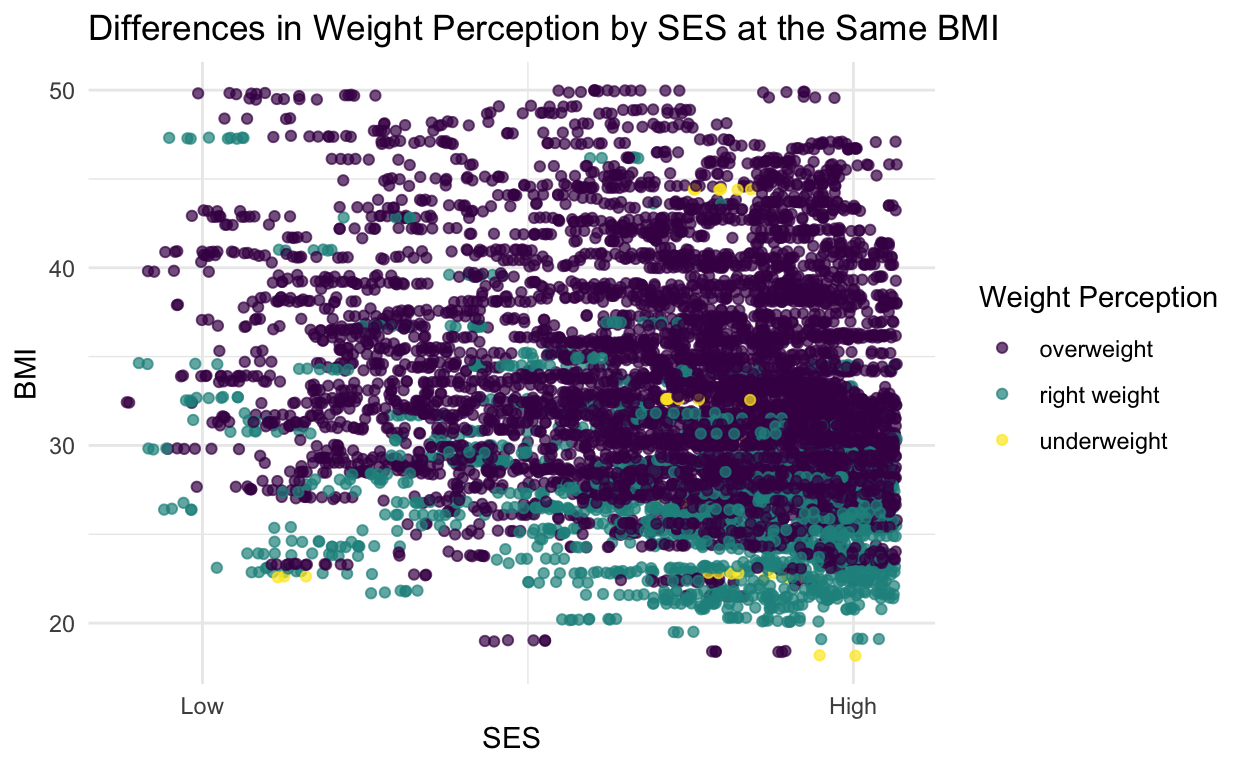
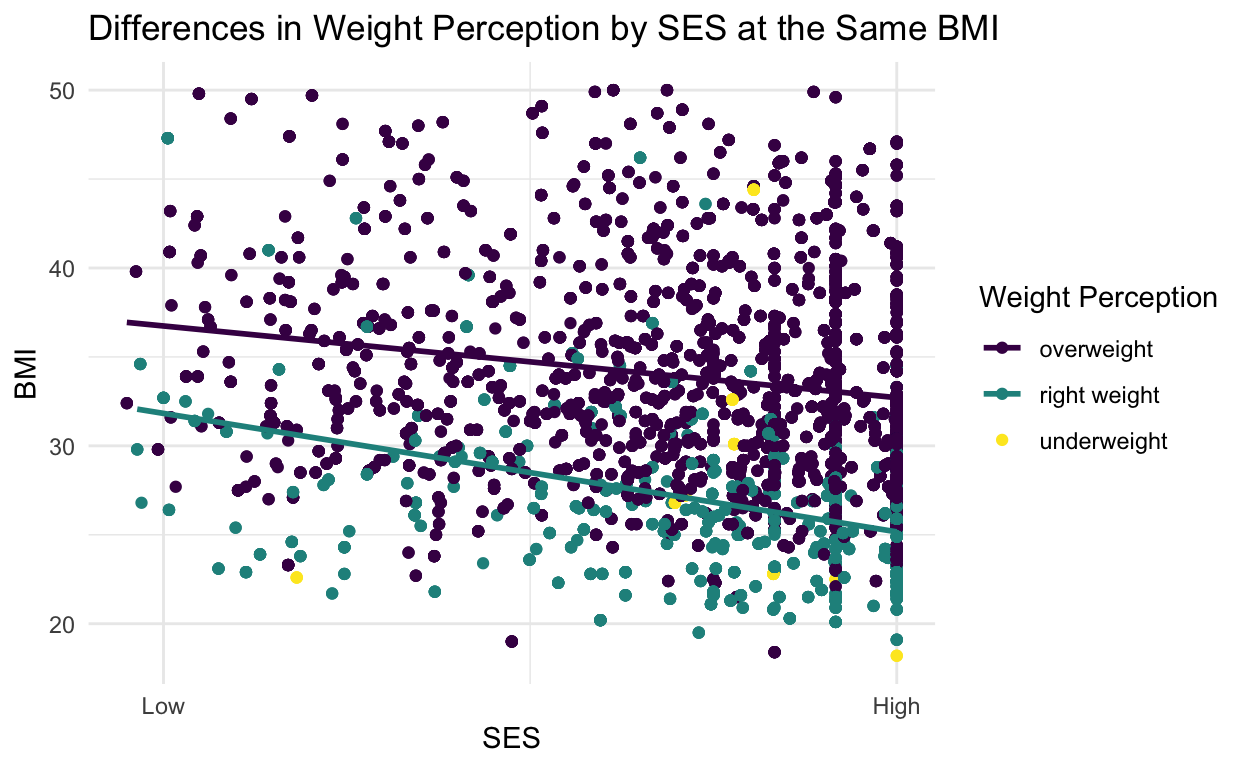
post1

diff --git a/_posts/2025-03-07-ses-and-weight-perception/ses-and-weight-perception.html b/_posts/2025-03-07-ses-and-weight-perception/ses-and-weight-perception.html
@@ -118,7 +118,7 @@ code span.wa { color: #5e5e5e; font-style: italic; } /* Warning */
   <!--/radix_placeholder_rmarkdown_metadata-->
   
   <script type="text/json" id="radix-resource-manifest">
-  {"type":"character","attributes":{},"value":["ses-and-weight-perception_files/anchor-4.2.2/anchor.min.js","ses-and-weight-perception_files/bowser-1.9.3/bowser.min.js","ses-and-weight-perception_files/distill-2.2.21/template.v2.js","ses-and-weight-perception_files/figure-html5/unnamed-chunk-3-1.png","ses-and-weight-perception_files/figure-html5/unnamed-chunk-4-1.png","ses-and-weight-perception_files/header-attrs-2.29/header-attrs.js","ses-and-weight-perception_files/jquery-3.6.0/jquery-3.6.0.js","ses-and-weight-perception_files/jquery-3.6.0/jquery-3.6.0.min.js","ses-and-weight-perception_files/jquery-3.6.0/jquery-3.6.0.min.map","ses-and-weight-perception_files/popper-2.6.0/popper.min.js","ses-and-weight-perception_files/tippy-6.2.7/tippy-bundle.umd.min.js","ses-and-weight-perception_files/tippy-6.2.7/tippy-light-border.css","ses-and-weight-perception_files/tippy-6.2.7/tippy.css","ses-and-weight-perception_files/tippy-6.2.7/tippy.umd.min.js","ses-and-weight-perception_files/webcomponents-2.0.0/webcomponents.js"]}
+  {"type":"character","attributes":{},"value":["plot11.png","plot12.png","ses-and-weight-perception_files/anchor-4.2.2/anchor.min.js","ses-and-weight-perception_files/bowser-1.9.3/bowser.min.js","ses-and-weight-perception_files/distill-2.2.21/template.v2.js","ses-and-weight-perception_files/figure-html5/unnamed-chunk-3-1.png","ses-and-weight-perception_files/figure-html5/unnamed-chunk-4-1.png","ses-and-weight-perception_files/figure-html5/unnamed-chunk-5-1.png","ses-and-weight-perception_files/header-attrs-2.29/header-attrs.js","ses-and-weight-perception_files/jquery-3.6.0/jquery-3.6.0.js","ses-and-weight-perception_files/jquery-3.6.0/jquery-3.6.0.min.js","ses-and-weight-perception_files/jquery-3.6.0/jquery-3.6.0.min.map","ses-and-weight-perception_files/popper-2.6.0/popper.min.js","ses-and-weight-perception_files/tippy-6.2.7/tippy-bundle.umd.min.js","ses-and-weight-perception_files/tippy-6.2.7/tippy-light-border.css","ses-and-weight-perception_files/tippy-6.2.7/tippy.css","ses-and-weight-perception_files/tippy-6.2.7/tippy.umd.min.js","ses-and-weight-perception_files/webcomponents-2.0.0/webcomponents.js"]}
   </script>
   <!--radix_placeholder_navigation_in_header-->
   <!--/radix_placeholder_navigation_in_header-->
@@ -1552,14 +1552,34 @@ code span.wa { color: #5e5e5e; font-style: italic; } /* Warning */
 <div class="layout-chunk" data-layout="l-body">
 
 </div>
-<h1 id="first-draft">First Draft</h1>
 <div class="layout-chunk" data-layout="l-body">
-<p><img src="ses-and-weight-perception_files/figure-html5/unnamed-chunk-3-1.png" width="624" /></p>
+
 </div>
-<h1 id="second-draft">Second Draft</h1>
 <div class="layout-chunk" data-layout="l-body">
-<p><img src="ses-and-weight-perception_files/figure-html5/unnamed-chunk-4-1.png" width="624" /></p>
+
 </div>
+<h3 id="final-plot">Final Plot</h3>
+<div class="layout-chunk" data-layout="l-body">
+<p><img src="ses-and-weight-perception_files/figure-html5/unnamed-chunk-5-1.png" width="624" /></p>
+</div>
+<div>
+<p><button onclick="showPlot('plot11')">Draft 1</button>
+<button onclick="showPlot('plot12')">Draft 2</button></p>
+</div>
+<div>
+<p>(Click the Draft buttons to view previous plots)</p>
+</div>
+<div id="plot-container">
+<p><img id="plot11" src="plot11.png">
+<img id="plot12" src="plot12.png" style="display:none; width: 100%; height: auto;"></p>
+</div>
+<script>
+  function showPlot(plotId) {
+    document.getElementById('plot11').style.display = "none";
+    document.getElementById('plot12').style.display = "none";
+    document.getElementById(plotId).style.display = "block";
+  }
+</script>
 <div class="sourceCode" id="cb1"><pre class="sourceCode r distill-force-highlighting-css"><code class="sourceCode r"></code></pre></div>
 <!--radix_placeholder_article_footer-->
 <!--/radix_placeholder_article_footer-->

diff --git a/docs/posts/2025-03-07-ses-and-weight-perception/index.html b/docs/posts/2025-03-07-ses-and-weight-perception/index.html
@@ -119,7 +119,7 @@ code span.wa { color: #5e5e5e; font-style: italic; } /* Warning */
 <!--/radix_placeholder_rmarkdown_metadata-->
   
   <script type="text/json" id="radix-resource-manifest">
-  {"type":"character","attributes":{},"value":["ses-and-weight-perception_files/anchor-4.2.2/anchor.min.js","ses-and-weight-perception_files/bowser-1.9.3/bowser.min.js","ses-and-weight-perception_files/distill-2.2.21/template.v2.js","ses-and-weight-perception_files/figure-html5/unnamed-chunk-3-1.png","ses-and-weight-perception_files/figure-html5/unnamed-chunk-4-1.png","ses-and-weight-perception_files/header-attrs-2.29/header-attrs.js","ses-and-weight-perception_files/jquery-3.6.0/jquery-3.6.0.js","ses-and-weight-perception_files/jquery-3.6.0/jquery-3.6.0.min.js","ses-and-weight-perception_files/jquery-3.6.0/jquery-3.6.0.min.map","ses-and-weight-perception_files/popper-2.6.0/popper.min.js","ses-and-weight-perception_files/tippy-6.2.7/tippy-bundle.umd.min.js","ses-and-weight-perception_files/tippy-6.2.7/tippy-light-border.css","ses-and-weight-perception_files/tippy-6.2.7/tippy.css","ses-and-weight-perception_files/tippy-6.2.7/tippy.umd.min.js","ses-and-weight-perception_files/webcomponents-2.0.0/webcomponents.js"]}
+  {"type":"character","attributes":{},"value":["plot11.png","plot12.png","ses-and-weight-perception_files/anchor-4.2.2/anchor.min.js","ses-and-weight-perception_files/bowser-1.9.3/bowser.min.js","ses-and-weight-perception_files/distill-2.2.21/template.v2.js","ses-and-weight-perception_files/figure-html5/unnamed-chunk-3-1.png","ses-and-weight-perception_files/figure-html5/unnamed-chunk-4-1.png","ses-and-weight-perception_files/figure-html5/unnamed-chunk-5-1.png","ses-and-weight-perception_files/header-attrs-2.29/header-attrs.js","ses-and-weight-perception_files/jquery-3.6.0/jquery-3.6.0.js","ses-and-weight-perception_files/jquery-3.6.0/jquery-3.6.0.min.js","ses-and-weight-perception_files/jquery-3.6.0/jquery-3.6.0.min.map","ses-and-weight-perception_files/popper-2.6.0/popper.min.js","ses-and-weight-perception_files/tippy-6.2.7/tippy-bundle.umd.min.js","ses-and-weight-perception_files/tippy-6.2.7/tippy-light-border.css","ses-and-weight-perception_files/tippy-6.2.7/tippy.css","ses-and-weight-perception_files/tippy-6.2.7/tippy.umd.min.js","ses-and-weight-perception_files/webcomponents-2.0.0/webcomponents.js"]}
   </script>
   <!--radix_placeholder_navigation_in_header-->
 <meta name="distill:offset" content="../.."/>
@@ -2482,14 +2482,34 @@ d-appendix d-footnote-list a.footnote-backlink {
 <div class="layout-chunk" data-layout="l-body">
 
 </div>
-<h1 id="first-draft">First Draft</h1>
 <div class="layout-chunk" data-layout="l-body">
-<p><img src="ses-and-weight-perception_files/figure-html5/unnamed-chunk-3-1.png" width="624" /></p>
+
 </div>
-<h1 id="second-draft">Second Draft</h1>
 <div class="layout-chunk" data-layout="l-body">
-<p><img src="ses-and-weight-perception_files/figure-html5/unnamed-chunk-4-1.png" width="624" /></p>
+
 </div>
+<h3 id="final-plot">Final Plot</h3>
+<div class="layout-chunk" data-layout="l-body">
+<p><img src="ses-and-weight-perception_files/figure-html5/unnamed-chunk-5-1.png" width="624" /></p>
+</div>
+<div>
+<p><button onclick="showPlot('plot11')">Draft 1</button>
+<button onclick="showPlot('plot12')">Draft 2</button></p>
+</div>
+<div>
+<p>(Click the Draft buttons to view previous plots)</p>
+</div>
+<div id="plot-container">
+<p><img id="plot11" src="plot11.png">
+<img id="plot12" src="plot12.png" style="display:none; width: 100%; height: auto;"></p>
+</div>
+<script>
+  function showPlot(plotId) {
+    document.getElementById('plot11').style.display = "none";
+    document.getElementById('plot12').style.display = "none";
+    document.getElementById(plotId).style.display = "block";
+  }
+</script>
 <div class="sourceCode" id="cb1"><pre class="sourceCode r distill-force-highlighting-css"><code class="sourceCode r"></code></pre></div>
 <!--radix_placeholder_article_footer-->
 <!--/radix_placeholder_article_footer-->

diff --git a/docs/index.html b/docs/index.html
@@ -2612,7 +2612,7 @@ function init_posts_list() {
 </div>
 </div>
 <div class="thumbnail">
-<img src="posts/2025-03-07-ses-and-weight-perception/ses-and-weight-perception_files/figure-html5/unnamed-chunk-3-1.png"/>
+<img src="posts/2025-03-07-ses-and-weight-perception/ses-and-weight-perception_files/figure-html5/unnamed-chunk-5-1.png"/>
 </div>
 <div class="description">
 <h2>SES and Weight Perception</h2>
